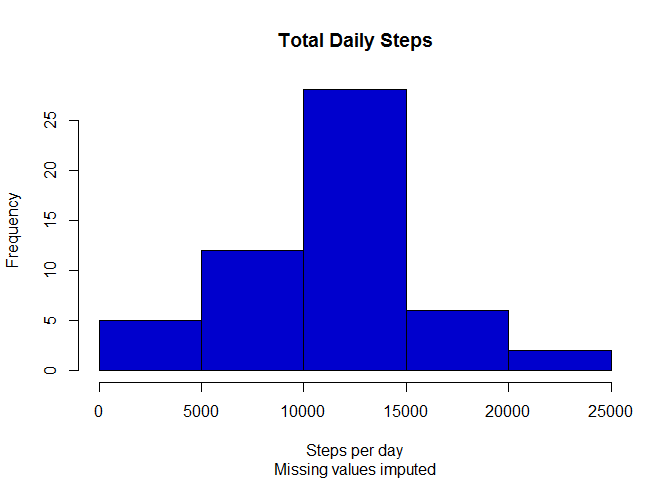
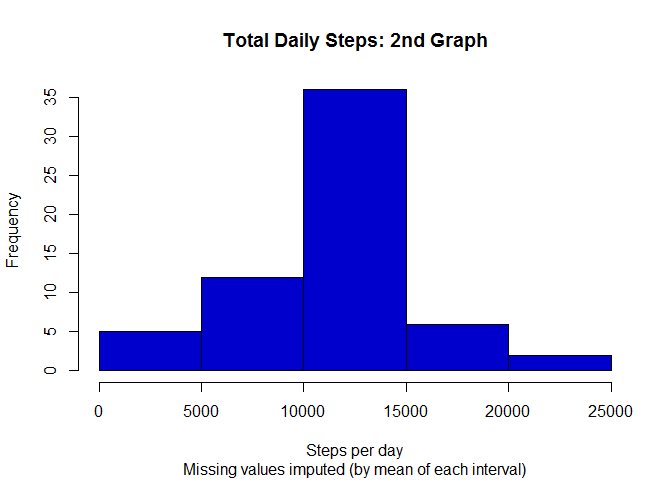
debug

diff --git a/PA1_template.html b/PA1_template.html
@@ -118,6 +118,7 @@ plot(interval_steps, type = &quot;l&quot;,
 max_minutes &lt;- sprintf(&quot;%02g&quot;, ((max_interval / 100 - as.integer(max_interval/100)) * 100))
 max_time &lt;- paste(max_hour, max_minutes, sep=&quot;:&quot;)</code></pre>
 <p>The interval identifer 835 corresponds to the 5-minute period which begins at 08:35 and has the maximum number of steps by average across all days.</p>
+<p><em>Note: the above information was last evaluated at 2015-11-16 00:56:03 while this document has been processed.</em></p>
 </div>
 <div id="imputing-missing-values" class="section level2">
 <h2>Imputing missing values</h2>
@@ -127,36 +128,59 @@ max_time &lt;- paste(max_hour, max_minutes, sep=&quot;:&quot;)</code></pre>
 <p><em>Note: The instruction for the assignment looks a bit confusing as it first asks for the number of missing values in the dataset and then in the explanation asks for the number of rows with ‘NA’s. The latter could have been less than the former if there were more than one ’NA’ in a single row but that’s not the case in this particular dataset.</em></p>
 <p>Create a new dataset that is equal to the original dataset but with the missing data filled in:</p>
 <pre class="r"><code>dat2 &lt;- dat
-dat2$steps &lt;- ifelse(is.na(dat2$steps), interval_steps
-                    [interval_steps$interval == dat2$intervall, 1], dat2$steps)</code></pre>
-<p><em>Note: To fill the missing values where number of steps for a particular row is not available we need a representative number. Using the calculations in previous sections, we use the average (mean) of steps taken in each interval, averaged across all days.</em></p>
-<p>Make a histogram of the total number of steps taken each dayMake a histogram of the total number of steps taken each day</p>
+dat2$steps &lt;- ifelse(is.na(dat2$steps),
+                     interval_steps$steps
+                     [match(dat2$interval, interval_steps$interval)],
+                     dat2$steps)</code></pre>
+<p><em>Note: To fill the missing values where number of steps for a particular row is not available we need a representative number. In this assignment we use the average of steps taken in each interval, averaged across all days. However we used both mean and median of each interval to calculate the average and replace the missing values to give us a reference point for comparing the effect of different strategies.</em></p>
+<p>Make a histogram of the total number of steps taken each day:</p>
 <pre class="r"><code>dailysteps2 &lt;- aggregate(steps ~ date, data = dat2, sum)
 hist(x= dailysteps2$steps, xlab = &quot;Steps per day&quot;, 
-     sub = &quot;Missing values imputed&quot;, main = &quot;Total Daily Steps&quot;, col = &quot;blue3&quot;)</code></pre>
[1 lines of base64/hex data omitted]
+     sub = &quot;Missing values imputed (by mean of each interval)&quot;, main = &quot;Total Daily Steps: 2nd Graph&quot;, col = &quot;blue3&quot;)</code></pre>
[1 lines of base64/hex data omitted]
 <p>Calculate and report the mean total number of steps taken per day:</p>
 <pre class="r"><code>mean(dailysteps2$steps)</code></pre>
 <pre><code>## [1] 10766.19</code></pre>
 <p>Calculate and report the median total number of steps taken per day:</p>
 <pre class="r"><code>median(dailysteps2$steps)</code></pre>
-<pre><code>## [1] 10765</code></pre>
-<p>The strategy to fill the missing values with the mean for each interval has kept the mean and median of the result same as the original dataset. Also as it’s evident from the new histogram the distribution of the data remains the same. In comparison if the decision was made to fill the missing values by median it would significantly change the shape of the histogram and as a result the mean of values.</p>
+<pre><code>## [1] 10766.19</code></pre>
+<p>The strategy to fill the missing values with the mean for each interval has kept the mean of the result exactly the same as the original dataset and the new median is only slightly higher. Also as it’s evident from the new histogram the distribution of the data remains the same.</p>
+<p>Alternatively if we decide to use the median of each interval to fill the missing values, it affects the shape of the histogram and as a result both mean and median of total daily steps will change.</p>
+<p>For comparison, we calculate the median of steps for each interval, across all days in the dataset:</p>
+<pre class="r"><code>alt_value &lt;- aggregate(steps ~ interval, data = dat, median)</code></pre>
+<p>Now we use this alternative value to fill the missing values:</p>
+<pre class="r"><code>dat3 &lt;- dat
+dat3$steps &lt;- ifelse(is.na(dat3$steps), alt_value$steps
+                    [match(dat3$interval, alt_value$interval)], 
+                    dat3$steps)</code></pre>
+<p>Let’s make a histogram of the total number of steps taken each day, but adjusted by median rather than mean:</p>
+<pre class="r"><code>dailysteps3 &lt;- aggregate(steps ~ date, data = dat3, sum)
+hist(x= dailysteps3$steps, xlab = &quot;Steps per day: 3rd graph&quot;, 
+     sub = &quot;Missing values imputed (by median of each interval)&quot;, main = &quot;Total Daily Steps: 3rd Graph&quot;, col = &quot;green3&quot;)</code></pre>
[1 lines of base64/hex data omitted]
+<p>Calculate and report the mean total number of steps taken per day:</p>
+<pre class="r"><code>mean(dailysteps3$steps)</code></pre>
+<pre><code>## [1] 9503.869</code></pre>
+<p>Calculate and report the median total number of steps taken per day:</p>
+<pre class="r"><code>median(dailysteps3$steps)</code></pre>
+<pre><code>## [1] 10395</code></pre>
+<p>New values for both mean and median of the total daily steps are significantly lower than the ones under previous strategy or from the original dataset. Also the frequency of the first bin in histogram has signficantly increased.</p>
+<p>As the change in the shape of the histogram and values of mean and median shows, the selected strategy for filling <code>NA</code>s has a noticable effect on the analysis.</p>
 </div>
 <div id="are-there-differences-in-activity-patterns-between-weekdays-and-weekends" class="section level2">
 <h2>Are there differences in activity patterns between weekdays and weekends?</h2>
 <p>Create a new factor variable in the dataset with two levels - “weekday” and “weekend” indicating whether a given date is a weekday or weekend day:</p>
-<pre class="r"><code>datwd &lt;- ifelse(weekdays(dat2$date) %in% c(&quot;Saturday&quot;,&quot;Sunday&quot;), &quot;Weekend&quot;, &quot;Weekday&quot;)
-dat2$wd &lt;- as.factor(datwd)</code></pre>
+<pre class="r"><code>datwd &lt;- ifelse(weekdays(dat3$date) %in% c(&quot;Saturday&quot;,&quot;Sunday&quot;), &quot;Weekend&quot;, &quot;Weekday&quot;)
+dat3$wd &lt;- as.factor(datwd)</code></pre>
 <p>Make a panel plot containing a time series plot of the 5-minute interval and the average number of steps taken, averaged across all weekday days or weekend days:</p>
 <pre class="r"><code>library(lattice)
 
-interval_steps2 &lt;- aggregate(steps ~ interval + wd, dat2, mean)
+interval_steps2 &lt;- aggregate(steps ~ interval + wd, dat3, mean)
 
 xyplot(steps ~ interval | wd, data = interval_steps2, type = &quot;l&quot;, 
        layout = c(1, 2), main = &quot;Daily Activity: Weekday versus Weekend&quot;,
-       xlab = &quot;interval&quot;, xlim = c(0:2400, by = 5))</code></pre>
[1 lines of base64/hex data omitted]
+       xlab = &quot;interval&quot;, xlim = c(0:2355, by = 5))</code></pre>
[1 lines of base64/hex data omitted]
 <p>As demonstrated in the above panel plot the pattern of activities during the weekends is significantly different to the pattern during the weekdays- in an average weekday the number of steps after reaching the peak in the morning drops sharply and remains low during the office hours until it rises slightly during the lunch time and again in late afternoon. But the peaks of activity during an average weekend are more distributed.</p>
 </div>
 <div id="section" class="section level2">

diff --git a/PA1_template.md b/PA1_template.md
@@ -117,6 +117,8 @@ max_time <- paste(max_hour, max_minutes, sep=":")
 
 The interval identifer 835 corresponds to the 5-minute period which begins at 08:35 and has the maximum number of steps by average across all days.
 
+*Note: the above information was last evaluated at 2015-11-16 00:56:03 while this document has been processed.*
+
 
 ## Imputing missing values
 
@@ -140,19 +142,21 @@ Create a new dataset that is equal to the original dataset but with the missing 
 
 ```r
 dat2 <- dat
-dat2$steps <- ifelse(is.na(dat2$steps), interval_steps
-                    [interval_steps$interval == dat2$intervall, 1], dat2$steps)
+dat2$steps <- ifelse(is.na(dat2$steps),
+                     interval_steps$steps
+                     [match(dat2$interval, interval_steps$interval)],
+                     dat2$steps)
 ```
 
-*Note: To fill the missing values where number of steps for a particular row is not available we need a representative number. Using the calculations in previous sections, we use the average (mean) of steps taken in each interval, averaged across all days.*
+*Note: To fill the missing values where number of steps for a particular row is not available we need a representative number. In this assignment we use the average of steps taken in each interval, averaged across all days. However we used both mean and median of each interval to calculate the average and replace the missing values to give us a reference point for comparing the effect of different strategies.*
 
-Make a histogram of the total number of steps taken each dayMake a histogram of the total number of steps taken each day
+Make a histogram of the total number of steps taken each day:
 
 
 ```r
 dailysteps2 <- aggregate(steps ~ date, data = dat2, sum)
 hist(x= dailysteps2$steps, xlab = "Steps per day", 
-     sub = "Missing values imputed", main = "Total Daily Steps", col = "blue3")
+     sub = "Missing values imputed (by mean of each interval)", main = "Total Daily Steps: 2nd Graph", col = "blue3")
 ```
 
 ![](PA1_template_files/figure-html/unnamed-chunk-13-1.png) 
@@ -168,7 +172,7 @@ mean(dailysteps2$steps)
 ## [1] 10766.19
 ```
 
- Calculate and report the median total number of steps taken per day:
+Calculate and report the median total number of steps taken per day:
  
 
 ```r
@@ -176,10 +180,67 @@ median(dailysteps2$steps)
 ```
 
 ```
-## [1] 10765
+## [1] 10766.19
 ```
 
-The strategy to fill the missing values with the mean for each interval has kept the mean and median of the result same as the original dataset. Also as it's evident from the new histogram the distribution of the data remains the same. In comparison if the decision was made to fill the missing values by median it would significantly change the shape of the histogram and as a result the mean of values.
+The strategy to fill the missing values with the mean for each interval has kept the mean of the result exactly the same as the original dataset and the new median is only slightly higher. Also as it's evident from the new histogram the distribution of the data remains the same.  
+
+Alternatively if we decide to use the median of each interval to fill the missing values, it affects the shape of the histogram and as a result both mean and median of total daily steps will change.
+
+For comparison, we calculate the median of steps for each interval, across all days in the dataset:
+
+
+```r
+alt_value <- aggregate(steps ~ interval, data = dat, median)
+```
+
+Now we use this alternative value to fill the missing values:
+
+
+```r
+dat3 <- dat
+dat3$steps <- ifelse(is.na(dat3$steps), alt_value$steps
+                    [match(dat3$interval, alt_value$interval)], 
+                    dat3$steps)
+```
+
+
+Let's make a histogram of the total number of steps taken each day, but adjusted by median rather than mean:
+
+
+```r
+dailysteps3 <- aggregate(steps ~ date, data = dat3, sum)
+hist(x= dailysteps3$steps, xlab = "Steps per day: 3rd graph", 
+     sub = "Missing values imputed (by median of each interval)", main = "Total Daily Steps: 3rd Graph", col = "green3")
+```
+
+![](PA1_template_files/figure-html/unnamed-chunk-18-1.png) 
+
+Calculate and report the mean total number of steps taken per day:
+
+
+```r
+mean(dailysteps3$steps)
+```
+
+```
+## [1] 9503.869
+```
+
+Calculate and report the median total number of steps taken per day:
+ 
+
+```r
+median(dailysteps3$steps)
+```
+
+```
+## [1] 10395
+```
+
+New values for both mean and median of the total daily steps are significantly lower than the ones under previous strategy or from the original dataset. Also the frequency of the first bin in histogram has signficantly increased.
+
+As the change in the shape of the histogram and values of mean and median shows, the selected strategy for filling `NA`s has a noticable effect on the analysis.
 
 ## Are there differences in activity patterns between weekdays and weekends?
 
@@ -187,8 +248,8 @@ Create a new factor variable in the dataset with two levels - "weekday" and "wee
 
 
 ```r
-datwd <- ifelse(weekdays(dat2$date) %in% c("Saturday","Sunday"), "Weekend", "Weekday")
-dat2$wd <- as.factor(datwd)
+datwd <- ifelse(weekdays(dat3$date) %in% c("Saturday","Sunday"), "Weekend", "Weekday")
+dat3$wd <- as.factor(datwd)
 ```
 
 Make a panel plot containing a time series plot of the 5-minute interval and the average number of steps taken, averaged across all weekday days or weekend days:
@@ -197,14 +258,14 @@ Make a panel plot containing a time series plot of the 5-minute interval and the
 ```r
 library(lattice)
 
-interval_steps2 <- aggregate(steps ~ interval + wd, dat2, mean)
+interval_steps2 <- aggregate(steps ~ interval + wd, dat3, mean)
 
 xyplot(steps ~ interval | wd, data = interval_steps2, type = "l", 
        layout = c(1, 2), main = "Daily Activity: Weekday versus Weekend",
-       xlab = "interval", xlim = c(0:2400, by = 5))
+       xlab = "interval", xlim = c(0:2355, by = 5))
 ```
 
-![](PA1_template_files/figure-html/unnamed-chunk-17-1.png) 
+![](PA1_template_files/figure-html/unnamed-chunk-22-1.png) 
 
 As demonstrated in the above panel plot the pattern of activities during the weekends is significantly different to the pattern during the weekdays- in an average weekday the number of steps after reaching the peak in the morning drops sharply and remains low during the office hours until it rises slightly during the lunch time and again in late afternoon. But the peaks of activity during an average weekend are more distributed.  
   
